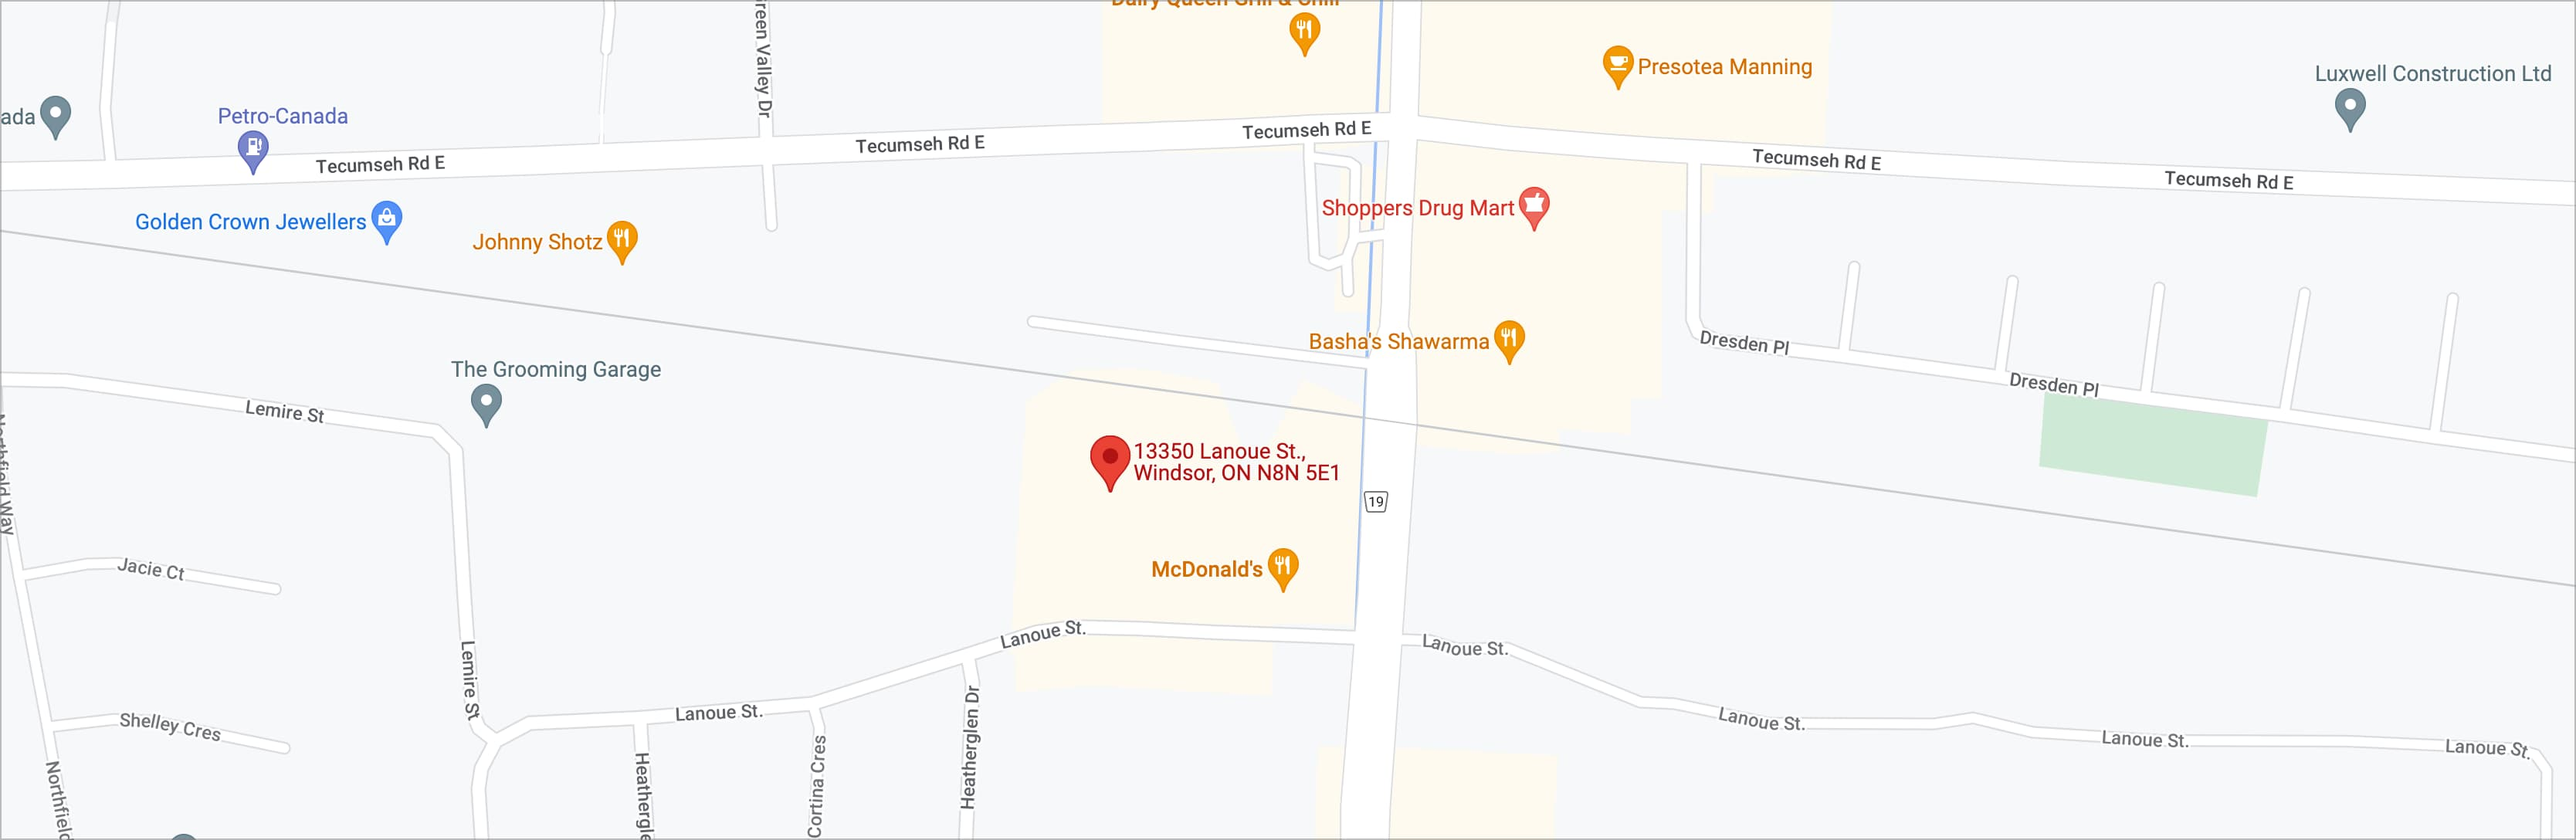
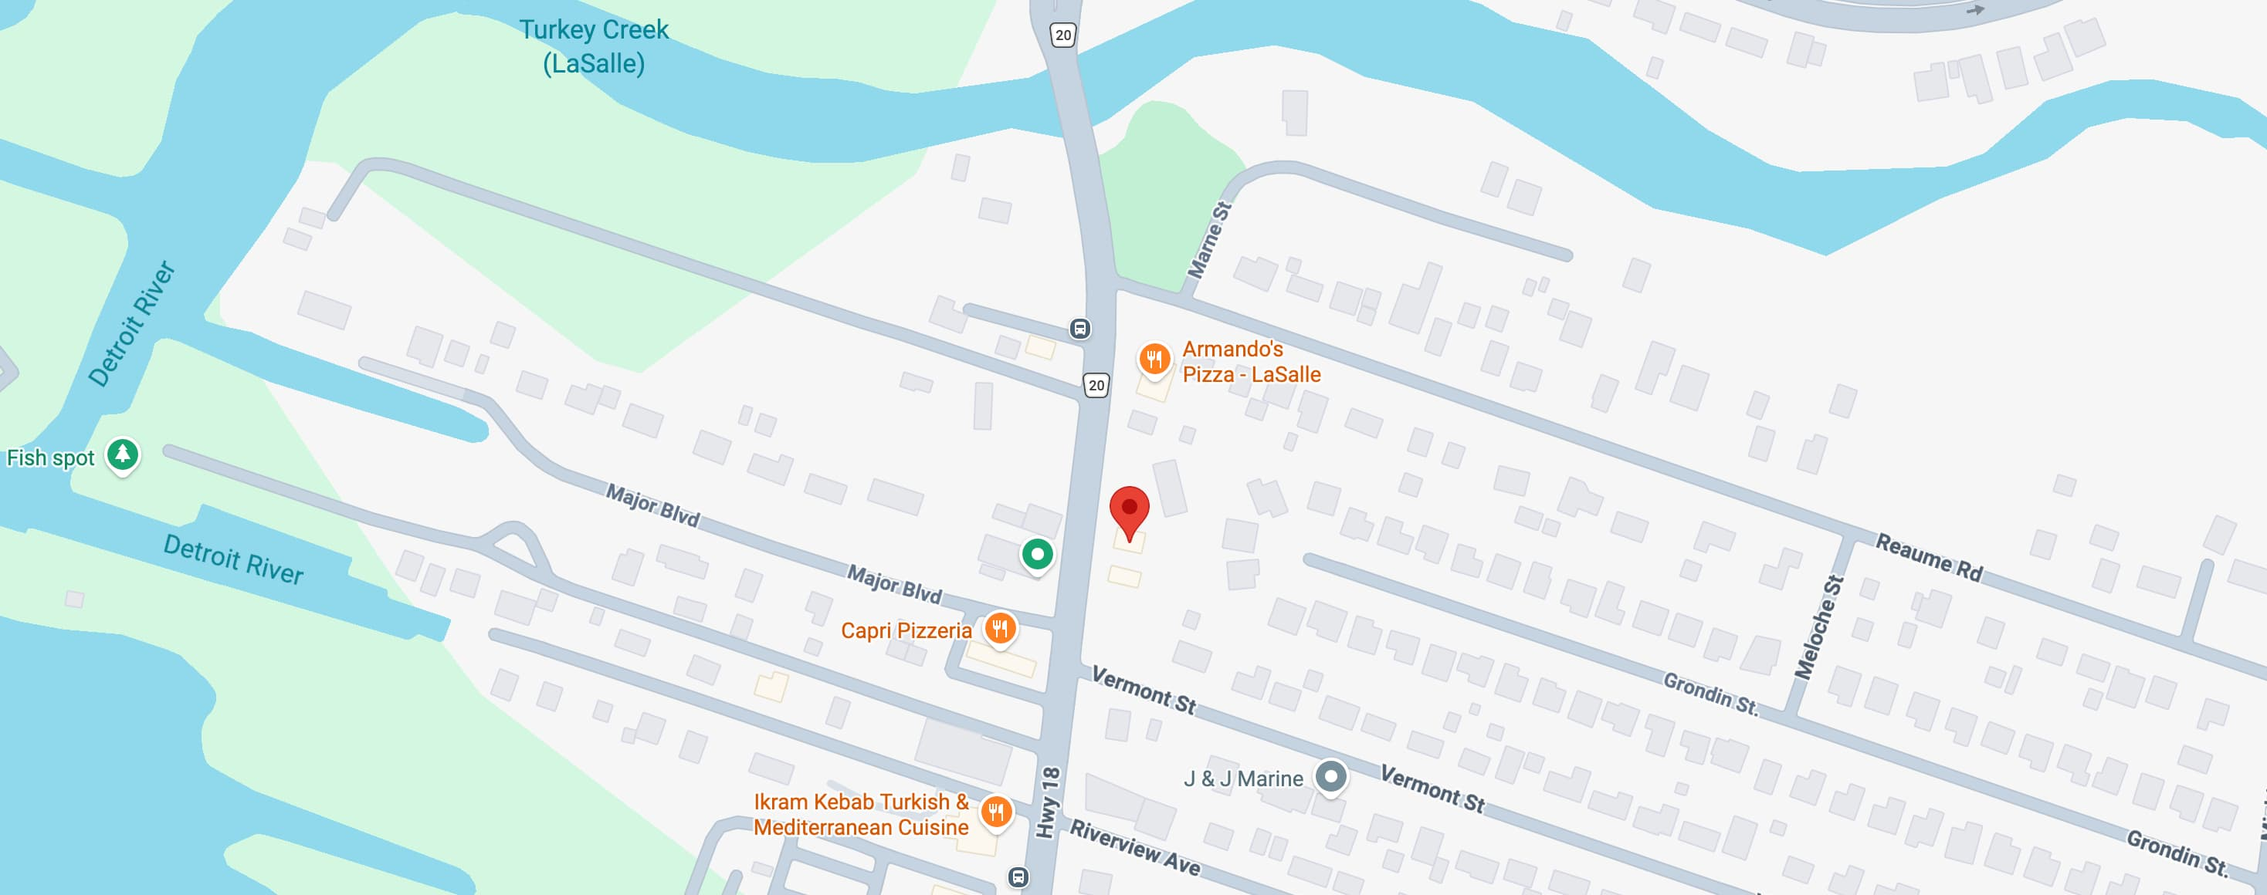
Update Disc n Dat address, hours, and map

diff --git a/src/components/location.js b/src/components/location.js
@@ -5,9 +5,10 @@ export default function Location() {
     <div className={styles.location}>
       <a
         className={styles.mapLink}
-        href="https://goo.gl/maps/ec3JeVydMrwmL2a99"
+        href="https://www.google.com/maps/search/?api=1&query=Disc%20%27N%20Dat%20Custom%20Electronics%2C%20271%20Front%20Rd%2C%20LaSalle%2C%20ON%20N9J%201Z6"
         target="_blank"
         rel="noopener noreferrer"
+        aria-label="View Disc ‘n Dat at 271 Front Rd, LaSalle on Google Maps"
       >
         <div className={styles.map} />
       </a>
@@ -19,12 +20,12 @@ export default function Location() {
           </div>
           <div className={styles.locationInfo}>
             <a
-              href="https://goo.gl/maps/ec3JeVydMrwmL2a99"
+              href="https://www.google.com/maps/search/?api=1&query=Disc%20%27N%20Dat%20Custom%20Electronics%2C%20271%20Front%20Rd%2C%20LaSalle%2C%20ON%20N9J%201Z6"
               target="_blank"
               rel="noopener noreferrer"
             >
-              <p>13350 Lanoue St.</p>
-              <p>Windsor, ON N8N 5E1</p>
+              <p>271 Front Rd</p>
+              <p>LaSalle, ON N9J 1Z6</p>
             </a>
           </div>
           <div className={styles.locationInfo}>
@@ -35,7 +36,7 @@ export default function Location() {
           </div>
           <img src="/disc.svg" alt="" />
           <div>
-            <p className="bold">Monday – Friday – 8am to 5pm</p>
+            <p className="bold">Monday – Friday – 9am to 5pm</p>
             <p className="bold">Saturday – by appointment only</p>
             <p>Sunday – Closed</p>
           </div>

diff --git a/README.md b/README.md
@@ -1,34 +1,64 @@
-This is a [Next.js](https://nextjs.org/) project bootstrapped with [`create-next-app`](https://github.com/vercel/next.js/tree/canary/packages/create-next-app).
+# Disc ‘n Dat
 
-## Getting Started
+Two-page brochure website: Home (`/`) and Brands (`/brands`). Both pages share
+the contact form and location section. Content lives in the source files; there
+is no CMS or online store.
 
-First, run the development server:
+## Existing stack
 
-```bash
+The lockfile pins Next.js 10.0.7, React 17.0.1, Sass 1.32.8, and the Netlify
+Next.js plugin 2.0.1. The repository uses npm. Netlify configuration is in
+`netlify.toml`; the contact form uses Netlify Forms.
+
+## Running this legacy checkout
+
+Verified on September 28, 2026 with **Node 16.12.0** on Apple Silicon:
+
+```sh
+npm ci --ignore-scripts
 npm run dev
-# or
-yarn dev
 ```
 
-Open [http://localhost:3000](http://localhost:3000) with your browser to see the result.
+Run those commands with Node 16.12.0 selected for this shell. Node 24.21.0 fails
+with `ERR_PACKAGE_PATH_NOT_EXPORTED` in the locked PostCSS 8.1.7 dependency.
+Node 16 is end-of-life: this is a temporary way to reproduce the old site, not a
+supported runtime recommendation for new work or ongoing hosting.
 
-You can start editing the page by modifying `pages/index.js`. The page auto-updates as you edit the file.
+`--ignore-scripts` avoids the old optional native dependency installers. This
+site uses ordinary image elements and does not use `next/image`. The old Sharp
+native image optimizer is not initialized by this setup; adding image
+optimization requires a separate dependency update.
 
-[API routes](https://nextjs.org/docs/api-routes/introduction) can be accessed on [http://localhost:3000/api/hello](http://localhost:3000/api/hello). This endpoint can be edited in `pages/api/hello.js`.
+```sh
+npm run build
+npm run start
+```
 
-The `pages/api` directory is mapped to `/api/*`. Files in this directory are treated as [API routes](https://nextjs.org/docs/api-routes/introduction) instead of React pages.
+There are no lint or test scripts. Verify Home and Brands in a browser, including
+the location section at mobile widths. Production builds still emit legacy
+PostCSS and Browserslist warnings.
 
-## Learn More
+## Content updates
 
-To learn more about Next.js, take a look at the following resources:
+- Address, hours, and map link: `src/components/location.js`
+- Location layout: `src/components/location.module.scss`
+- Homepage copy: `src/pages/index.js`
+- Brand list: `src/pages/brands.js`
+- Contact form: `src/components/form.js`
 
-- [Next.js Documentation](https://nextjs.org/docs) - learn about Next.js features and API.
-- [Learn Next.js](https://nextjs.org/learn) - an interactive Next.js tutorial.
+The location map is a static image (`public/map.jpg`) that links to
+Google Maps. The original 500px section and responsive positioning are preserved.
+The previous image is retained as `public/map-old.jpg` and is no longer displayed.
 
-You can check out [the Next.js GitHub repository](https://github.com/vercel/next.js/) - your feedback and contributions are welcome!
+## Deployment
 
-## Deploy on Vercel
+The existing config runs `npm run build`, publishes `out`, and loads the legacy
+Netlify Next.js plugin. The Netlify account/build settings and active GitHub
+integration must be checked before deploying; a local Next build does not verify
+the Netlify adapter or form delivery. Pushing the connected branch may trigger a
+live deployment.
 
-The easiest way to deploy your Next.js app is to use the [Vercel Platform](https://vercel.com/new?utm_medium=default-template&filter=next.js&utm_source=create-next-app&utm_campaign=create-next-app-readme) from the creators of Next.js.
-
-Check out our [Next.js deployment documentation](https://nextjs.org/docs/deployment) for more details.
+Keep a framework/runtime migration separate from small content updates. If the
+site is retained, update to supported dependencies and verify Netlify deployment
+and Forms together. If a replacement site is supplied, review its stack, form
+handling, hosting, and maintenance scope before replacing this project.
